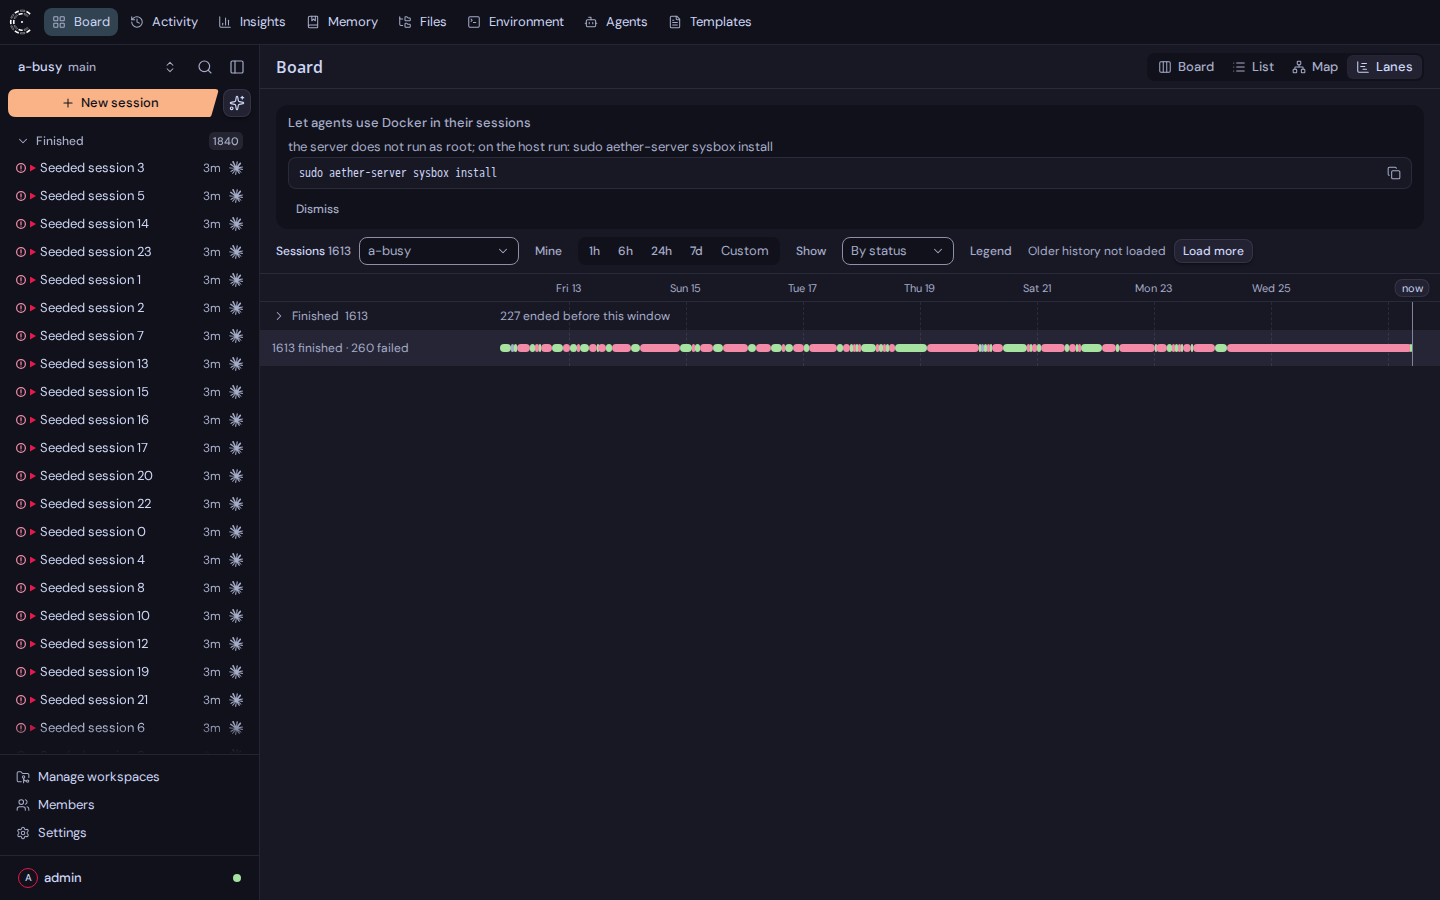
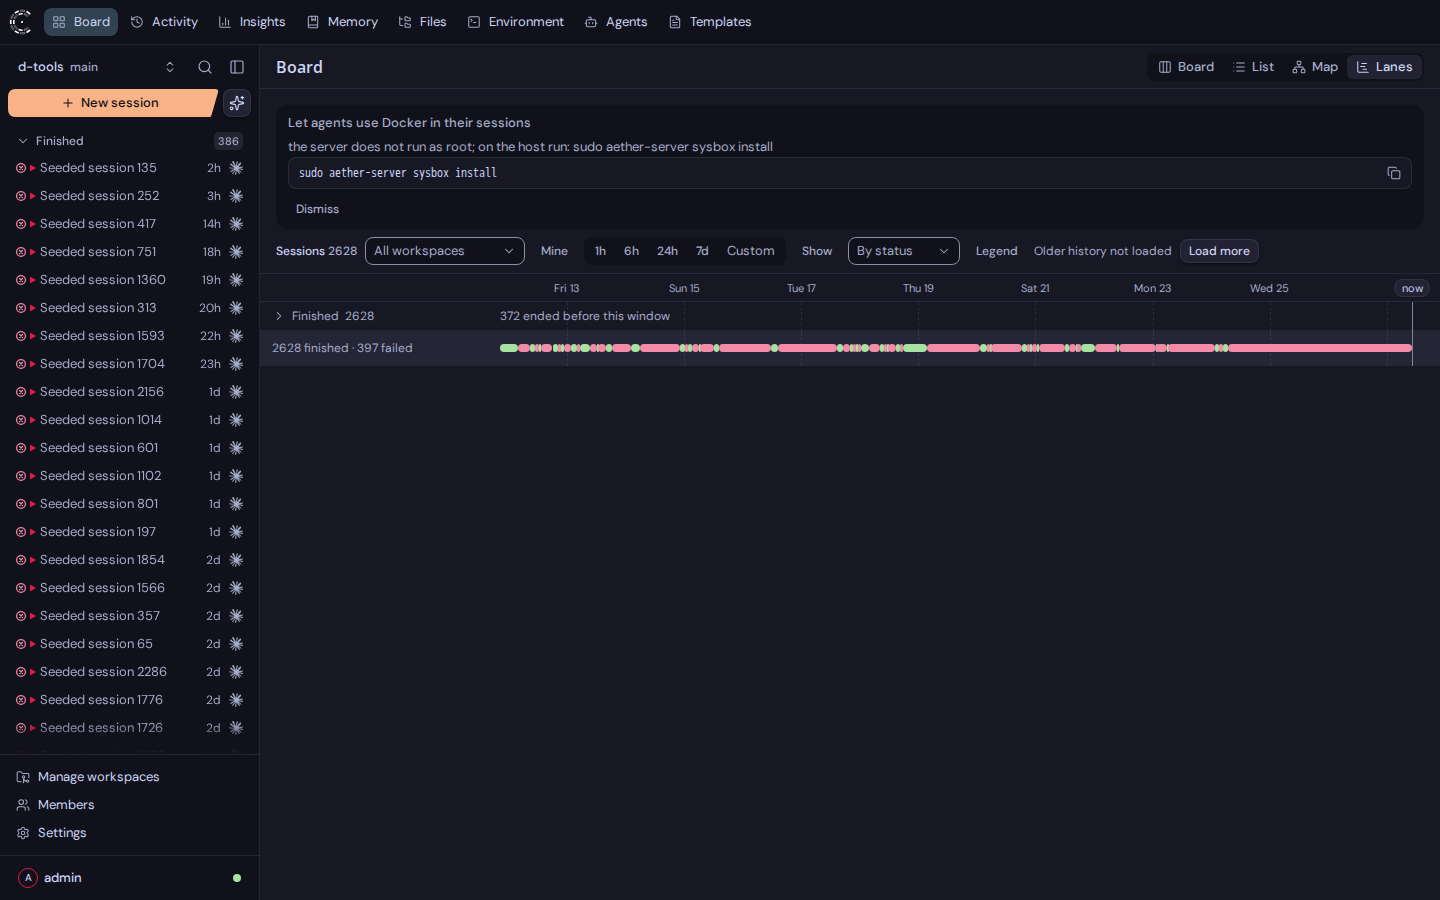
docs(research): add phone-width screenshots of Load more

diff --git a/research/2026-11-26-dashboard-performance/measure/world.ts b/research/2026-11-26-dashboard-performance/measure/world.ts
@@ -9,7 +9,8 @@
 // PERF_LINK_DELAY_MS=75 puts a TCP relay between the gateway and the server
 // that holds every chunk for 75 ms in each direction, so one round trip
 // between them costs 150 ms, as a distant relay would. PERF_CLI names another
-// `aether` binary for the gateway, to compare two builds on the same world.
+// `aether` binary for the gateway and PERF_SERVER another `aether-server`, to
+// compare two builds on the same world.
 
 import { execFileSync } from 'node:child_process'
 import { copyFileSync, mkdtempSync, writeFileSync } from 'node:fs'
@@ -26,6 +27,8 @@ import { seedWorkspace } from '../../../web/e2e/harness/setup'
 
 const out = process.argv[2]
 if (!out) throw new Error('usage: world.ts <state-file> [seed flags...]')
+if (process.env.PERF_CLI) copyFileSync(process.env.PERF_CLI, binaries().cli)
+if (process.env.PERF_SERVER) copyFileSync(process.env.PERF_SERVER, binaries().server)
 const dir = mkdtempSync(path.join(tmpdir(), 'cf-perf-'))
 const server = await startServer(dir)
 const delay = Number(process.env.PERF_LINK_DELAY_MS ?? 0)
@@ -46,7 +49,7 @@ if (delay) {
   await new Promise<void>((resolve) => relay.listen(0, '127.0.0.1', resolve))
   link = `127.0.0.1:${(relay.address() as net.AddressInfo).port}`
 }
-if (process.env.PERF_CLI) copyFileSync(process.env.PERF_CLI, binaries().cli)
+
 const gateway = await startGateway(dir, 'admin')
 const api = new GatewayClient(gateway.addr, gateway.token)
 const admin = { name: 'admin', api, url: gateway.url, home: gateway.home } as never
